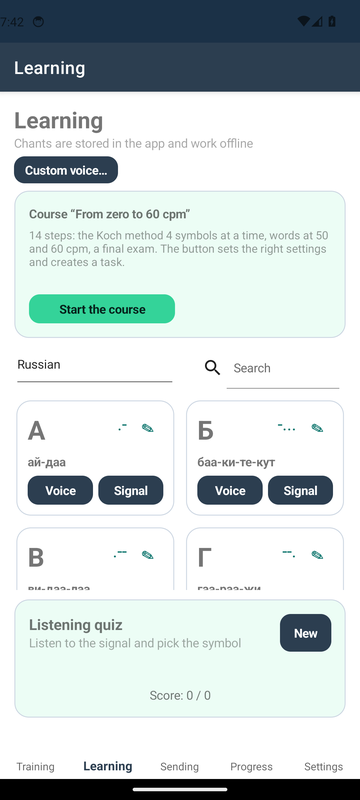
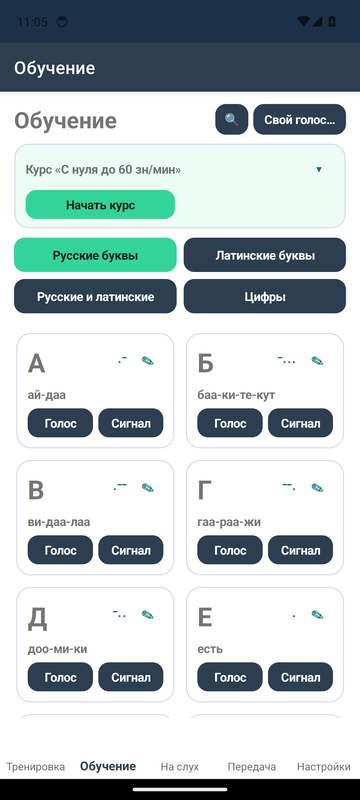
Bump version to 2.7.0 and refresh phone screenshots
Версия 2.7.0 (ApplicationVersion 20700) в шести местах. Снимки телефона в
README — русский проход дымового теста (эмулятор, язык приложения ru-RU),
добавлен снимок вкладки «На слух»; CHANGELOG 2.7.0: телефон под запись на
бумаге, вкладка «На слух» вместо «Прогресса», выбор набора кнопками, иконка
Android, без буквы Ё, установщик Windows меньше на ~10 МБ.

diff --git a/CHANGELOG.md b/CHANGELOG.md
@@ -2,6 +2,12 @@
 
 ## 2.7.0
 
+- Телефон, «Тренировка»: сделана под обычный способ тренировки — услышанные группы записывают на бумаге и сверяют с текстом задания. Блок называется «Текст задания» (кнопка «Показать»), под кнопками подсказка; поле ввода ответа спрятано под «Проверить вводом ▾» (выбор запоминается), клавиатура после прослушивания больше не выскакивает сама. Экзамен и шаги курса засчитываются по введённому ответу — для них поле раскрывается само.
+- Телефон: вкладки «Прогресс» больше нет (результаты сверяют на бумаге). На её месте — «На слух»: проверка на слух отдельной вкладкой во весь экран — выбор набора символов, четыре крупных варианта ответа, «▶ Новый символ», «↻ Ещё раз» (повторить сигнал), верный вариант подсвечивается зелёным, ошибочный — красным, «Сбросить счёт». История заданий по-прежнему пишется (на ней работает «Повторить сложные символы»); история, цель дня и экспорт остаются на Windows.
+- Телефон, «Обучение»: набор символов выбирается кнопками «Русские буквы», «Латинские буквы», «Русские и латинские», «Цифры» — выбранный подсвечен, как «Что тренировать» в настройках (раньше это был незаметный выпадающий список), выбор запоминается; поиск — по кнопке 🔍; «Свой голос…» — в строке заголовка, подробности курса — по «▾». Карточкам символов досталось почти всё место, которое занимали шапка и проверка на слух.
+- Буквы Ё больше нет (Windows и телефон): у неё тот же код, что у Е, в эфире её передают как Е — отдельная Ё только дублировала Е (лишняя карточка, Ё в тексте заданий при звуке Е, клетка в выборе своих символов). Русский алфавит — 32 буквы; набранная по привычке Ё засчитывается как Е.
+- Иконка Android: знак «· · —» больше не обрезается маской рабочего стола (фон и знак теперь отдельными слоями адаптивной иконки, знак — в безопасной зоне); на iPhone у иконки нет чёрных углов.
+- Дымовой тест телефона проходит все вкладки ещё и на русском (язык приложения ru-RU) и играет раунд «На слух»: новый символ → четыре варианта → ответ. Снимки телефона в README — на русском.
 - Windows: установщик и zip меньше примерно на 10 МБ (zip 75 → ~64 МБ, программа после распаковки 181 → 147 МБ). Уведомление «Пора потренироваться» теперь показывается напрямую через Shell_NotifyIcon, а не через NotifyIcon из WinForms, который ради одного значка тянул в самодостаточную сборку всю библиотеку WinForms. Поведение то же: значок виден, пока уведомление на экране, щелчок открывает окно. Дымовой UI-тест добавляет и убирает значок уведомления.
 
 ## 2.6.2

diff --git a/README.md b/README.md
@@ -83,11 +83,11 @@
 
 Ещё: [обучение на английском в тёмной теме](docs/screenshots/learning-en.png).
 
-Телефон (Android, снимки дымового теста на эмуляторе, язык системы — английский):
+Телефон (Android, снимки дымового теста на эмуляторе, язык приложения — русский):
 
-| Тренировка | Настройки | Обучение и курс |
-|---|---|---|
-| ![Phone training](docs/screenshots/phone-training.png) | ![Phone settings](docs/screenshots/phone-settings.png) | ![Phone learning](docs/screenshots/phone-learning.png) |
+| Тренировка | Обучение и курс | На слух | Настройки |
+|---|---|---|---|
+| ![Тренировка на телефоне](docs/screenshots/phone-training.png) | ![Обучение на телефоне](docs/screenshots/phone-learning.png) | ![Проверка на слух](docs/screenshots/phone-quiz.png) | ![Настройки на телефоне](docs/screenshots/phone-settings.png) |
 
 ## Скачать готовую программу
 
